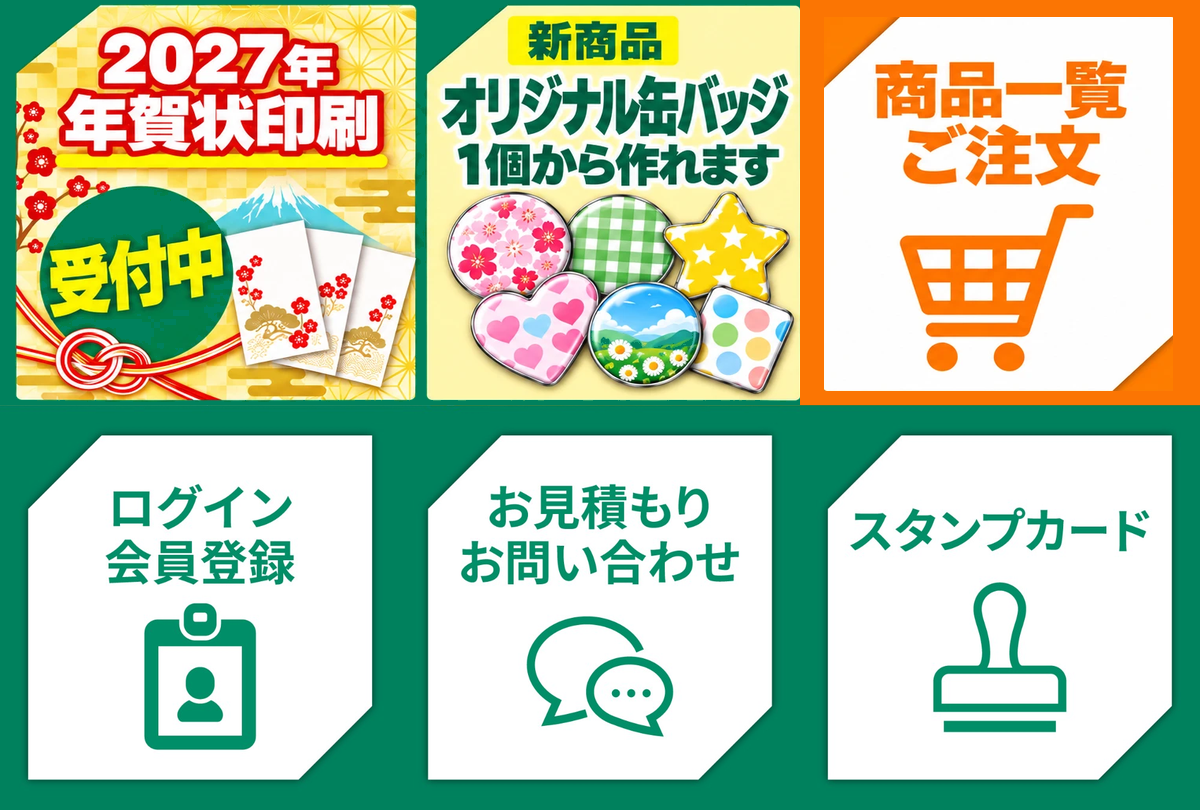
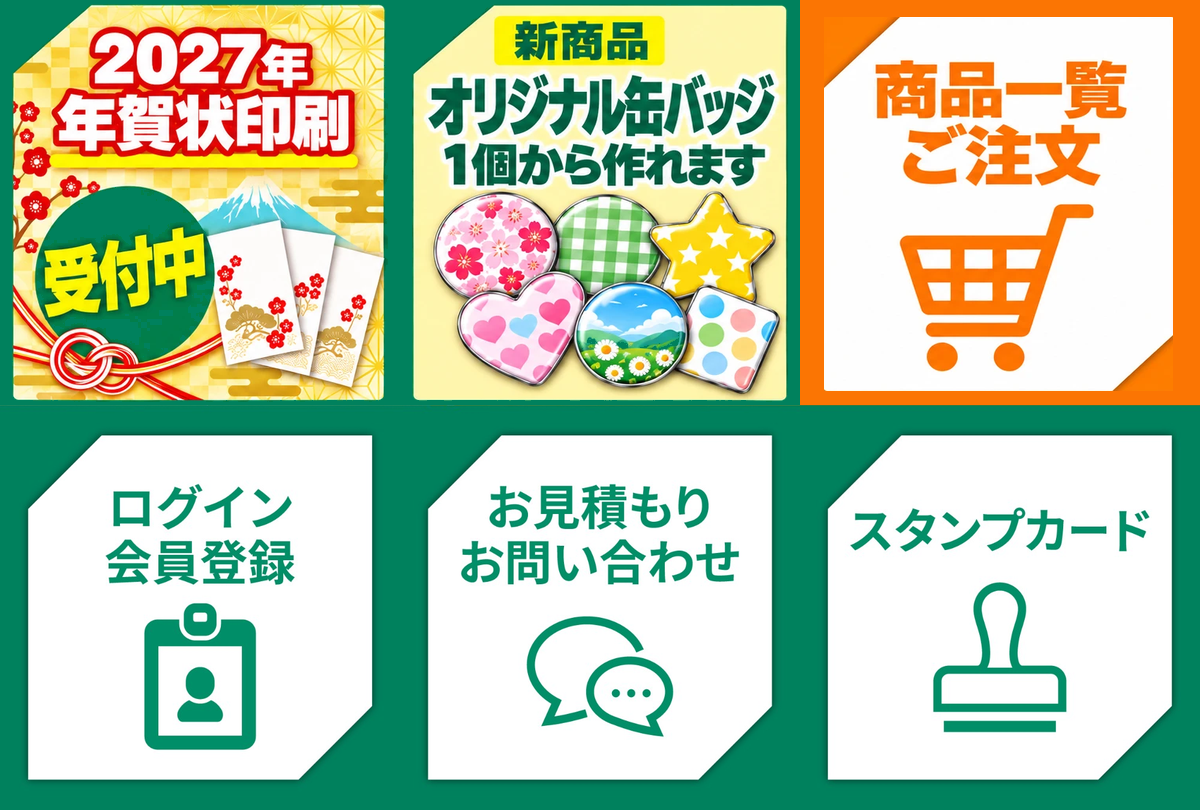
インクアート：11月リッチメニュー＝上段左2枠を同じ幅（376px）に置き直し（左のはみ出しと中央の細さを解消）

Changed region(s): [[0.0, 0.0, 0.6783, 0.4938]]

diff --git a/_build/build_inkart_richmenu_202611.py b/_build/build_inkart_richmenu_202611.py
@@ -124,6 +124,12 @@ def rows_mode():
     act = Image.open(ACTUAL).convert("RGB").resize((W, H), Image.LANCZOS)
     act_green = tuple(int(v) for v in np.array(act)[H - 5, W - 5])
     bot = act.crop((0, CH, W, H))
+    # 生成物は左の枠が広すぎ（マスからはみ出す）、真ん中の枠が細い。上段左2つを源画像から切り直して同じ幅に置く（殿村さん 10/22）
+    tw = 376
+    for ci, (sx0, sx1) in enumerate([(19, 533), (541, 1019)]):
+        card = im.crop((sx0, 14, sx1 + 1, 565)).resize((tw, CH), Image.LANCZOS)
+        ImageDraw.Draw(top).rectangle([ci * CW, 0, (ci + 1) * CW - 1, CH - 1], fill=green)
+        top.paste(card, (ci * CW + (CW - tw) // 2, 0))
     # 上段の緑（生成）を実物の緑に揃える
     ta = np.array(top).astype(int)
     ta[(abs(ta - np.array(green)).sum(-1) < 45)] = act_green
